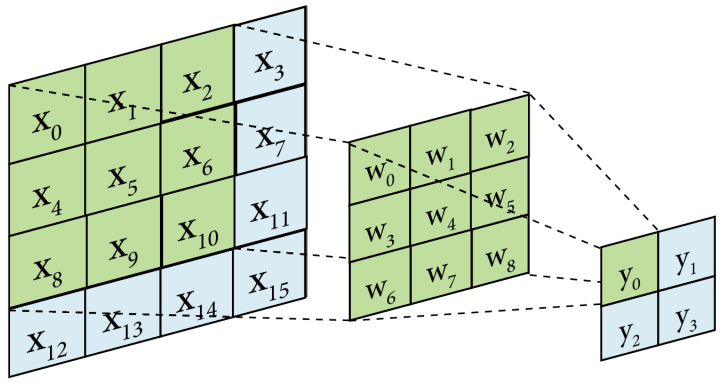
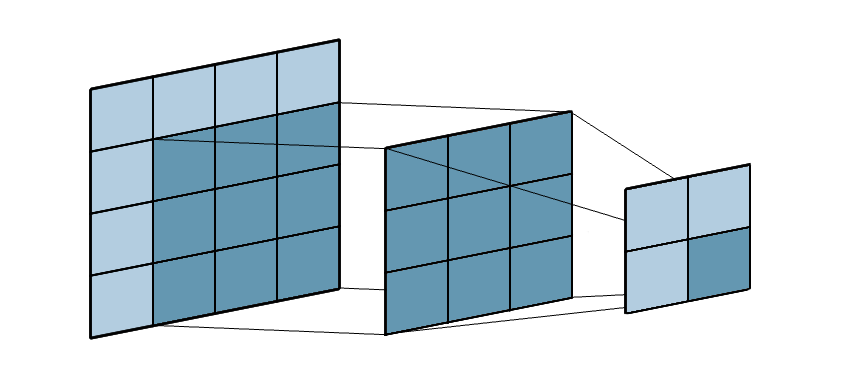
Update docs

diff --git a/doc/sections/2_background.tex b/doc/sections/2_background.tex
@@ -9,53 +9,64 @@ These set of methods have been applied in multiple fields such as speech recogni
 \subsection{Convolutional Neural Networks}
 \gls{cnn} is a class of deep neural networks that has recently shown increasing popularity due to its success in natural language processing and computer vision fields.
 
-\glspl{cnn} are different from others \glspl{ann} in the sense that \glspl{cnn} uses the convolution operation instead of matrix multiplication to propagate the data. This convolution operation is applied in the hidden layers of the \glspl{cnn} by convolutional layers.
+\glspl{cnn} are different from others \glspl{ann} in the sense that former uses the convolution operation instead of matrix multiplication to propagate the data. This convolution operation is applied in the hidden layers of the \glspl{cnn} by convolutional layers. Before introducing the convolutional layers, we present the concepts of convolution, padding and stride.
 
-Before introducing the convolutional layers, we present the concepts of convolution, padding and stride.
+\paragraph{Convolution.} 
 
-\subsubsection{Convolution, padding and stride}
-A convolution is a mathematical operation, usually denoted by the asterisk operator $\ast$, that transforms two functions, $f$ and $g$, in a third one, $f\ast g$ that represents the amount of overlap of $g$ as it is shifted over $f$.
+A \textbf{convolution} is a mathematical operation, usually denoted by the asterisk ($\ast$) operator, that transforms two functions, $f$ and $g$, in a third one, $f\ast g$, that represents the amount of overlap of $g$ as it is shifted over $f$.
 
-In image processing, an image is convolved with a convolution matrix (or kernel) by adding an image data point to its neighbors, that are weighted by the kernel. The latter is used as a sliding window that goes over the image being processed in order to compute all the values. Figure \ref{fig:convolution} shows a graphical representation of the described process, in which the image represented by the matrix $X$ is convolved by the kernel $w$ producing $y = X\ast w$.
+In image processing, an image is convolved with a convolution matrix, or kernel, by adding an image data point to its neighbors, that are weighted by the kernel. The kernel is used as a sliding window that traverses the image being processed in order to compute all the result values. Figure \ref{fig:convolution} shows a graphical representation of the described process.
 
 \begin{figure}
 	\centering
 	\includegraphics[width=0.5\textwidth]{images/convolution.png}
-	\caption{Convolution of matrix $X$ with kernel $w$, producing $y = X\ast w$. Figure scanned from \cite{IMG:CONVOLUTION}.}
+	\caption{Convolution of a $4\times4$ matrix with a $3\times3$ matrix resulting in a $2\times2$ matrix.}
 	\label{fig:convolution}
 \end{figure}
 
+\paragraph{Padding.}
+As shown in Figure \ref{fig:convolution}, one of the effects observed when convolving an image with a kernel is that the resulting matrix has a smaller size than the input image. \textbf{Padding} solves this issue by adding extra values to the boundary of the original image so that its size is effectively increased and the result of the convolution has the same size as the original input.
+
+In convolution, when there is a need of increasing the size of the input data, zero-padding is typically used, meaning that the image is padded evenly by adding rows and columns of zeroes. If the right amount of zero-padding is used, this operation is known as \textbf{same} padding, since after the convolution, the output will keep the same spatial dimensions as its input. Figure \ref{fig:padding} shows an example of the application of same padding.
+
+\begin{figure}
+	\centering
+	\includegraphics[width=0.5\textwidth]{images/padding.png}
+	\caption{Convolution with same padding. In the image, zero-padding is applied to a $3\times3$ matrix in order to have a $5\times5$ matrix as an input. The resulting input matrix is convolved with a $2\times2$ kernel producing a $3\times3$ output matrix.}
+	\label{fig:padding}
+\end{figure}
+
+On the other hand, when there is no padding applied to the input of the convolution, the kernel always stays at a valid position within the input matrix, producing that the output size shrinks depending on the kernel size. For this reason, this kind of padding can be called \textbf{valid} padding or no-padding. Figure \ref{fig:convolution} shows this behavior.
+
+\paragraph{Stride.}
+When an image is convolved with a kernel, the kernel is shifted over the image in order to compute each cell value of the output matrix. In figures \ref{fig:convolution} and \ref{fig:padding}, we slide the kernel one cell at a time, however, the number of pixels traversed per slide can be different that one. This number is called \textbf{stride}, and it represents the number of cells that the kernel matrix is shifted over the input matrix in order to compute the next output cell value.
+
 \subsubsection*{Convolutional layers}
 Convolutional layers take matrices with dimensions $(w_1, h_1, c_1)$ that represent input images with width $w_1$, height $h_1$ and $c_1$ channels. This matrices are convolved with $k$ filters of size $f$, producing an output matrix with dimensions $(w_2, h_2, c_2)$, with:
+
 \begin{itemize}
-	\item $r_2 = \frac{r_1 - f + 2p}{s} + 1$
-	\item $c_2 = \frac{c_2 - f + 2p}{s} + 1$
-	\item $d_2 = k$
+	\item $w_2 = \frac{w_1 - f + 2p}{s} + 1$
+	\item $h_2 = \frac{h_2 - f + 2p}{s} + 1$
+	\item $c_2 = k$
 \end{itemize}
-where $p$ is the the amount of zero-padding used and $s$ is the value of the stride \cite{STANFORD}.
-
-When there is a need to increase the size of the input data, typically zero-padding is used, meaning that the image is padded evenly by adding rows and columns of zeroes.
-If the right amount of zero-padding is used, this type of padding is known as \textbf{same} padding, since after the convolution operation, the layer's output will keep the same spatial dimensions as its input.
-
-On the other hand, when there is no padding applied to the input of the convolution layer, the filter window always stays at a valid position within the input matrix, producing that the output size shrinks depending on the filter size $f$. For this reason, this kind of padding is called \textbf{valid} padding.
+where $p$ is the the amount of zero-padding used and $s$ is the value of the stride \cite{STANFORD}. It is worth noting that the third dimension of the output is given by the amount of filter used, no matter what the input's third dimension is.
 
 \subsubsection*{Architecture of CNNs}
-
-The architecture of a \glspl{cnn} varies depending on the task being performed, although they typically share:
+The architecture of a \gls{cnn} varies depending on the task being performed, although all architectures typically share:
 \begin{itemize}
-	\item An input layer that is a tensor with shape 
+	\item An \textbf{input layer} that is a tensor with shape 
 	$(n, r, c, d)$, where $n$ is the number of images to be processed, $r$ is the number of rows of pixels or image height, $c$ is the number of columns of pixels or image width, and $d$ is the image depth or number of channels.
-	\item Multiple hidden layers that usually are convolutional layers that convolve their input with a set of $k$ filters producing a set of filtered images as a result that will be used as the input of the next layer.
-	\item Activation layers that apply an activation function to the result of the hidden layer. In \gls{cnn}, the most commonly used activation function is \gls{relu}, since it has demonstrated to make convergence faster \cite{RELU}.
+	\item Multiple \textbf{hidden layers}, usually convolutional layers, that convolve their input with a set of $k$ filters, producing a set of filtered images as a result that will be used as the input of the next layer.
+	\item \textbf{Activation layers} that apply an activation function to the result of the hidden layer. In \gls{cnn}, the most commonly used activation function is \gls{relu}, since it has demonstrated to make convergence faster \cite{RELU}.
 \end{itemize}
 
 Depending on the task being carried out, the architecture can also present:
 \begin{itemize}
-	\item Pooling layers that shrink the image stack produced by the convolution layers. These typically consist of filters of a given size that are used to downsize the resulting matrix of the convolution layer. There are different types of pooling layers depending on the used pooling function. These usually are: max pooling and average pooling.
-	\item Fully connected layers that will compute the class scores. Each neuron in these layers is connected to all the outputs of the previous layer. s
+	\item \textbf{Pooling layers}, that shrink the image stack produced by the convolution layers. These typically consist of filters of a given size that are used to downsize the resulting matrix of the convolution layer. There are different types of pooling layers depending on the used pooling function. These usually are: max pooling and average pooling.
+	\item \textbf{Fully connected layers}, that will compute the class scores. Each neuron in these layers is connected to all the outputs of the previous layer.
 \end{itemize}
 
-
 \subsection{Single image super-resolution}
+\gls{sisr} is a low-level computer vision task that aims at obtaining a \gls{hr} image from an input \gls{lr} image. 
 
 \subsection{Noise reduction}
